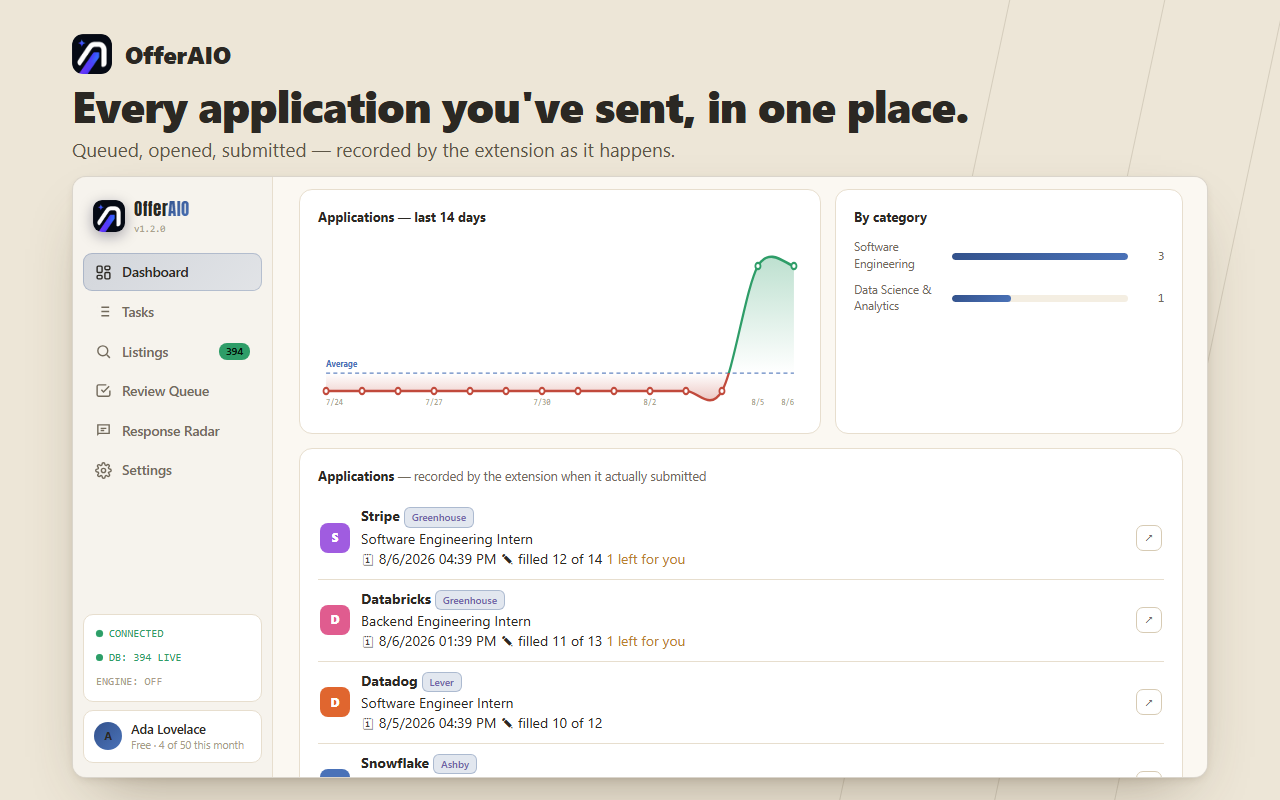
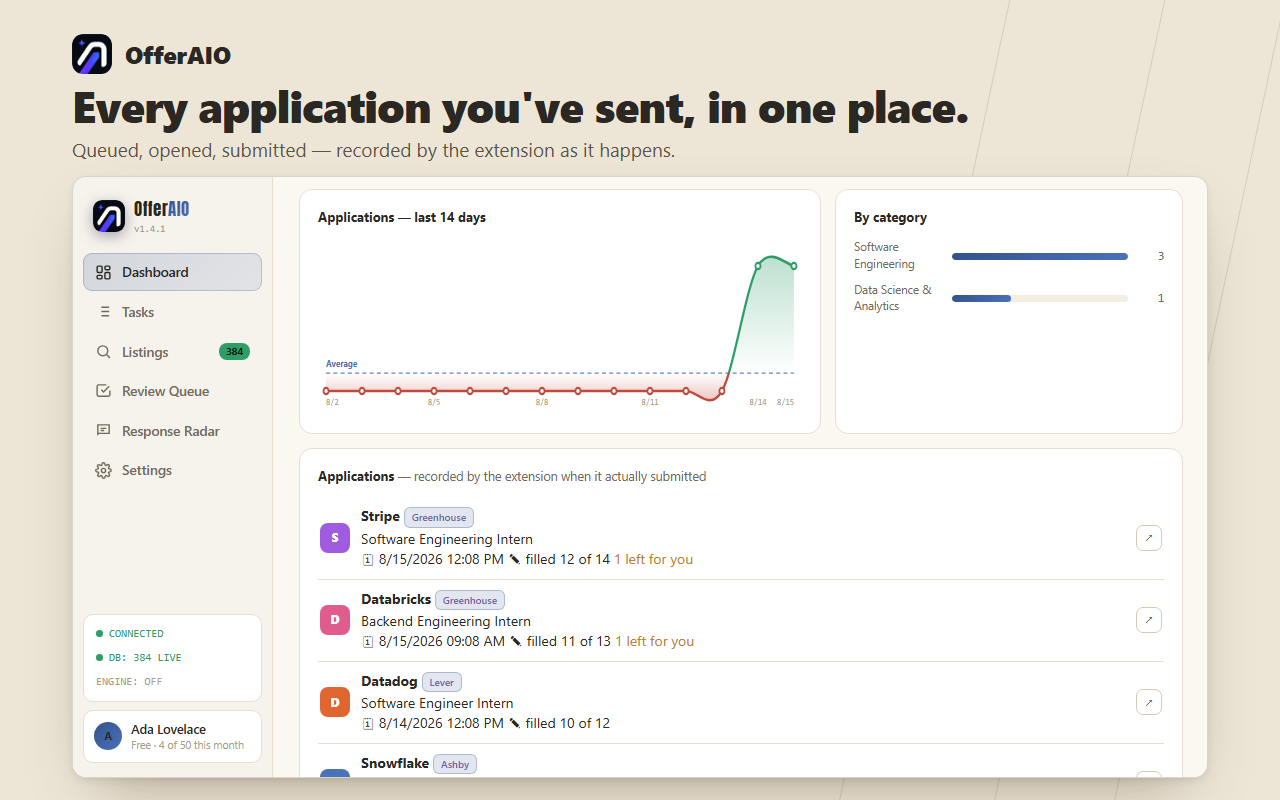
Document section 18, and mark section 17 verified
The residual risk in section 17 changed shape: the isolated-world handoff is
proven, so what is left unproven is a real ATS with a custom uploader, where the
design already fails safe. Section 18 is new — the work-auth bug, the profile
contract, the two silences, and how to run the browser harness (including that
--load-extension is ignored by branded Chrome, which costs an hour if you don't
know it).

Store screenshots regenerated against the current UI.

Changed region(s): [[0.3125, 0.7812, 0.5312, 0.8125], [0.3125, 0.6875, 0.5312, 0.7188], [0.3125, 0.875, 0.4688, 0.9062]]

diff --git a/PROJECT.md b/PROJECT.md
@@ -2,7 +2,25 @@
 
 Single source of truth for the OfferAIO project. Any assistant or person should be
 able to read this file and pick up the work without re-discovering anything.
-**Last updated: 2026-08-15.** (**§8 — review cleared. The store is PUBLISHED at v1.3.1, at
+**Last updated: 2026-08-15.** (Two things today.
+
+**§18 — the work-authorisation bug that hid inside the rule against it, fixed in v1.4.1.**
+Rule 1 stopped `answerFor` asserting work authorisation and left a guard for "we don't
+know". The guard could never fire, because **neither profile UI could produce that state**:
+both derived `needsSponsorship = (workAuth === "Requires sponsorship")`, so picking
+**"F-1 (CPT/OPT)" stored `false`** and the extension answered **"Yes"** to *"authorized to
+work without sponsorship?"* — the exact false declaration rule 1 exists to prevent, for
+exactly the students it exists to protect. Neither select had a blank option either, so a
+user who never touched the control still shipped an answer they never gave. Read §18, then
+§7 rule 1.
+
+**§17 is verified.** The résumé handoff genuinely works from a content script's isolated
+world, on a real form, in a real Chrome — including the part that matters, that the file is
+in the form's `FormData` and not merely displayed. `tests/browser-endtoend.mjs` is the
+harness; it is also what found the bug above and two silences beside it. **154 tests pass**
+(115 in `tests/`, up from 103; 51 in `worker/test/`), plus 32 browser assertions.
+
+**§8 — review cleared. The store is PUBLISHED at v1.3.1, at
 100%, with nothing pending.** Verified against `:fetchStatus` on 2026-08-15: there is no
 `submittedItemRevisionStatus` at all. The blocker that led this file for three days — real
 installs stuck on the 2026-08-04 v1.1.2 build, without any of the §7 safety rules and with a
@@ -159,7 +177,10 @@ session re-uploading old files. After any extension change, verify the raw file 
 - `tests/` — Node tests for extension + pipeline logic (`license.test.mjs`,
   `bridge.test.mjs`, `content-workauth.test.mjs`, `content-tracker.test.mjs`,
   `listings.test.mjs`, and from 2026-08-08 `ats-manifest.test.mjs`,
-  `dashboard-canfill.test.mjs`, `version-sync.test.mjs`). Deliberately outside
+  `dashboard-canfill.test.mjs`, `version-sync.test.mjs`, and from 2026-08-15
+  `profile-contract.test.mjs` (§18) plus `browser-endtoend.mjs` — the last of which is
+  **not** a `.test.mjs` on purpose, so CI's glob skips it: it drives a real Chrome.
+  Deliberately outside
   `extension/`, which `zip-extension.yml` ships wholesale to the store. `test.yml` globs
   `tests/*.test.mjs`, so a new file runs on its own.
   ⚠ The last three are **consistency** tests: they read `manifest.json`, `OfferAIO.html`
@@ -269,6 +290,11 @@ before and drifted anyway; a comment cannot enforce a convention.
    which caught exactly that ordering bug mid-fix). F-1 is deliberately never
    auto-answered: CPT/OPT may authorise work, but the right answer varies by question and
    by stage — precisely the judgement not to make on someone's behalf.
+   ⚠ **This rule was correct and still shipped the harm it forbids for a week.** The
+   guard it relies on, `typeof p.needsSponsorship !== "boolean"`, was unreachable: the
+   writers of the profile could not produce a non-boolean. Reading `sponsorshipNeed()` in
+   `content.js` is now the rule; **§18** is why, and `tests/profile-contract.test.mjs`
+   is what keeps the writers honest. A rule enforced only on the reader is half a rule.
 2. **Full-auto stops for a missing resume or a flagged question.** ⚠ **The premise under
    this rule was wrong for the product's whole life, and it was corrected in v1.4.0 — see
    §17.** Browsers do not forbid attaching a file; they forbid setting `input.value` to a
@@ -445,12 +471,11 @@ time the dashboard is open.
   `chrome.storage.local` stubbed. The script drives headless Chrome, which is the only
   way to get an exact 1280×800 PNG; a normal window screenshot comes out rescaled.
 - Privacy policy URL to enter: `https://offeraio.com/privacy.html`
-- **Remaining:** submit the **v1.4.0** zip as an update (`node store/publish-extension.mjs`,
-  which pulls it from the `extension-latest` release), and answer the Privacy practices tab
-  again in the dashboard now that a résumé file is stored (§17). A rejection leaves v1.3.1
-  serving users, which is a good build — so this is a low-stakes submission, unlike the last
-  one. The permission justifications (§7 rule 4, §15, §16) are unchanged since v1.3.1 cleared
-  review with them, and v1.4.0 adds no host permissions.
+- **Remaining:** the Privacy practices tab, in the dashboard, now that a résumé file is
+  stored (§17). **v1.4.1 was submitted 2026-08-15** via `node store/publish-extension.mjs`.
+  A rejection leaves v1.3.1 serving users, which is a good build — so this was a low-stakes
+  submission, unlike the last one. The permission justifications (§7 rule 4, §15, §16) are
+  unchanged since v1.3.1 cleared review with them, and v1.4.x adds no host permissions.
 - ✅ **Screenshots regenerated 2026-08-06** against the v1.2.0 UI. Two of the three sources
   needed changes first, because rendering the *real* UI means the sources break when the
   UI's preconditions change:
@@ -679,11 +704,9 @@ in any browser testing it after either pass — `manifest.json` changed in both.
    `node store/publish-extension.mjs --dry-run`, which now prints both revision blocks
    directly (it used to slice the raw response at 500 chars, and the ~400-char `publicKey`
    ate the whole window, so the one thing the poll exists to report was never visible).
-   **Two things still owed, neither urgent:**
-   - **Ship v1.4.0** (§17, the résumé auto-attach) — `node store/publish-extension.mjs`.
-     The zip is already built on the `extension-latest` release. Worth proving §17's
-     isolated-world handoff on one real ATS first (`dev/local-mode.mjs on`), since it has
-     never run outside a normal page. A rejection is cheap now: v1.3.1 keeps serving.
+   **v1.4.1 was submitted 2026-08-15** (§17 the résumé auto-attach, §18 the work-auth fix)
+   after `tests/browser-endtoend.mjs` verified §17's isolated-world handoff. A rejection is
+   cheap now: v1.3.1 keeps serving. **One thing still owed:**
    - **A dashboard visit**, for the two things the API cannot touch: the three regenerated
      screenshots in `store/` (the live listing still shows v1.1.2's), and the Privacy
      practices tab. ⚠ Read the warning in `store/OfferAIO-store-listing.md` before
@@ -1002,10 +1025,130 @@ extension now holds an actual résumé file, so "we never send your résumé any
 sharper promise than it was, and sending résumé *text* to the Worker would break it more
 visibly.
 
-### Not verified
+### ✅ Verified in the isolated world (2026-08-15)
 
-The browser check above ran in a normal page. Content scripts run in an **isolated world**,
-and while Chrome permits this handoff there, it has not been confirmed on a real ATS. The
-design makes that safe rather than risky — the verify-don't-assume rule means an isolated-world
-failure reports as "couldn't attach" and falls back to the old highlight behaviour — but the
-first real Greenhouse or Lever fill is what proves it. Test with `dev/local-mode.mjs on`.
+This section used to end "Not verified" — the check had only ever run in a normal page, and
+content scripts run in an **isolated world** with its own `File`, `DataTransfer` and
+`FileList` constructors. `tests/browser-endtoend.mjs` now settles it, against a real Chrome
+with the real extension installed:
+
+```
+attachResume() returns true · file on the input · bytes survive the base64 round trip
+in the form's FormData: ada-lovelace-resume.pdf, exact byte length
+the page's OWN world sees the same file  ← a wrapper that existed only in the isolated
+                                            world would pass every other assertion here
+input and change both fire · the required file input now validates
+a file the user attached themselves is left alone
+```
+
+The page's-own-world assertion is the one worth keeping. Everything else could be satisfied
+by an object visible only to us, which is precisely the failure mode that would let a user
+submit believing their résumé went.
+
+Still unproven on a **real ATS**, and that is a different claim: Greenhouse and Lever may
+use custom uploaders, sandboxed iframes, or post to S3 themselves. The design already fails
+safe there — `attachResume()` re-reads `input.files` and reports honestly — so the residual
+risk is a résumé we correctly report as not attached, not one we wrongly report as attached.
+
+## 18. The profile is a contract, and only one side of it was tested (added 2026-08-15, v1.4.1)
+
+### ⚠ Rule 1 was right, was tested, and shipped the exact harm it forbids anyway
+
+`answerFor` no longer asserts work authorisation — §7 rule 1, eight tests, all green since
+2026-08-05. It leaves ambiguous questions blank, and its guard for "we don't know" is
+`typeof p.needsSponsorship !== "boolean"`.
+
+**Nothing could reach that guard.** The profile has two writers and one reader:
+
+| | writes the profile |
+| --- | --- |
+| `extension/popup.html` + `popup.js` | what the user types into the extension |
+| `OfferAIO.html` | what the user types into the website, pushed over the bridge |
+| `extension/content.js` | the only reader — on somebody's job application |
+
+Both writers derived the flag the same wrong way:
+
+```js
+needsSponsorship = (workAuth === "Requires sponsorship")   // four answers into two
+```
+
+Two consequences, both live from the day rule 1 was written until 2026-08-15:
+
+1. **"F-1 (CPT/OPT)" stored `false`.** So on *"Are you authorized to work in the United
+   States without sponsorship?"* the reader took the boolean at face value and answered
+   **"Yes"**. That is the false legal declaration rule 1 exists to prevent, made on behalf
+   of precisely the students it exists to protect, by the code written to protect them.
+2. **Neither select had a blank option.** The dashboard's defaulted to "US Citizen", the
+   popup's to "Sponsorship? No". A user who never touched the control still shipped a
+   confident answer they had never given — and the reader could not tell that from a
+   deliberate one.
+
+`tests/content-workauth.test.mjs` was green throughout, and its own fixtures show why:
+`const f1 = { needsSponsorship: true, workAuth: "F-1 (CPT/OPT)" }` — a shape **no writer
+ever produced**. The reader was tested exhaustively against a profile the product did not
+build. **Test the writers, or the reader's tests are fiction.**
+
+### The fix
+
+`sponsorshipNeed(p)` in `content.js` returns **true / false / null**, and reads the explicit
+selection rather than the derived boolean:
+
+| selection | stored | read as |
+| --- | --- | --- |
+| US Citizen, Permanent Resident | `needsSponsorship: false` | false — answerable |
+| Requires sponsorship | `needsSponsorship: true` | true — answerable |
+| **F-1 (CPT/OPT)** | **key absent** | **null — ask the user** |
+| blank (the default) | key absent | null — ask the user |
+
+A stored `false` with no selection behind it is **not trusted** — that was the old default on
+both UIs, a value nobody chose. A stored `true` is, because it only ever came from a
+deliberate pick and over-declaring a need for sponsorship is not the dangerous direction.
+Dashboard profiles written before the blank option existed drop a stored "US Citizen" on
+load (`PROFILE_VERSION` 2): it costs a citizen one dropdown, and it stops an international
+student's applications declaring something they never said.
+
+Both UIs now offer the same five choices with the blank one selected, and the popup's binary
+"Sponsorship?" select is gone — it could express neither F-1 nor silence.
+
+⚠ **The derivation now exists three times** — `content.js`, `popup.js`, `OfferAIO.html` —
+in files that cannot import each other. That is the §16 problem again.
+**`tests/profile-contract.test.mjs`** holds them together: same options in both UIs, blank
+first and selected, identical derivation for every option either offers, and the reader's
+conclusion matching what the writers stored. It also asserts every key `popup.js` saves has
+a matching id in `popup.html` — `document.getElementById(k).value` throws inside the Save
+handler, so renaming a control without renaming its key silently kills the whole button.
+
+### Two silences fixed beside it
+
+Both found by the browser harness, both the §16 failure in miniature — a question left
+blank is indistinguishable from a user who got distracted, so it generates no bug report:
+
+- **A label whose control could not be resolved was dropped without a word.** `controlForLabel`
+  refuses to guess on a dense form (§7 rule 4), which is right — but when we *had* an answer
+  and nowhere provably safe to put it, nothing was said. It is now named in the bar (no
+  outline: we do not know which box it is).
+- **A dropdown with no option matching our answer was left empty without a word** — "Yes"
+  against options reading "Yes, I am authorized to work". Now flagged like anything else.
+
+### `tests/browser-endtoend.mjs`
+
+A real Chrome, the real extension, the real content script in its real isolated world.
+32 assertions covering §17's handoff, §7 rules 1/3/4/5, and the tracker's three outcomes.
+
+- **Run it before any store submission.** It is not in CI — `test.yml` globs
+  `tests/*.test.mjs`, which this deliberately is not, because it needs a Chrome binary.
+  `node tests/browser-endtoend.mjs`, or `--head` to watch it.
+- ⚠ **`--load-extension` and `--disable-extensions-except` are ignored by branded Google
+  Chrome** ("not allowed in Google Chrome"), silently apart from one stderr warning — the
+  symptom is simply that no isolated world ever appears. The extension is installed over
+  CDP instead: `Extensions.loadUnpacked`, which `--enable-unsafe-extension-debugging`
+  unlocks. Do not "fix" this back to the flags.
+- The mock form is **generated into a temp dir at runtime**, not committed. GitHub Pages
+  publishes every file in this repo, so a tracked `dev/mock-application.html` would put a
+  convincing fake job posting live on offeraio.com — the reason `dev-harness` exists and
+  stays unmerged. The extension is copied to a temp dir too and given its `127.0.0.1` host
+  permission *there*, so a local-only host entry cannot leak into the store zip.
+- It found the work-auth bug within a minute of first running green, by the plain mechanism
+  of using the profile shape the product actually stores. The first version of the harness
+  used `firstName`/`lastName`, "found" a name-filling bug that did not exist, and that false
+  positive is itself the argument for `profile-contract.test.mjs`.
